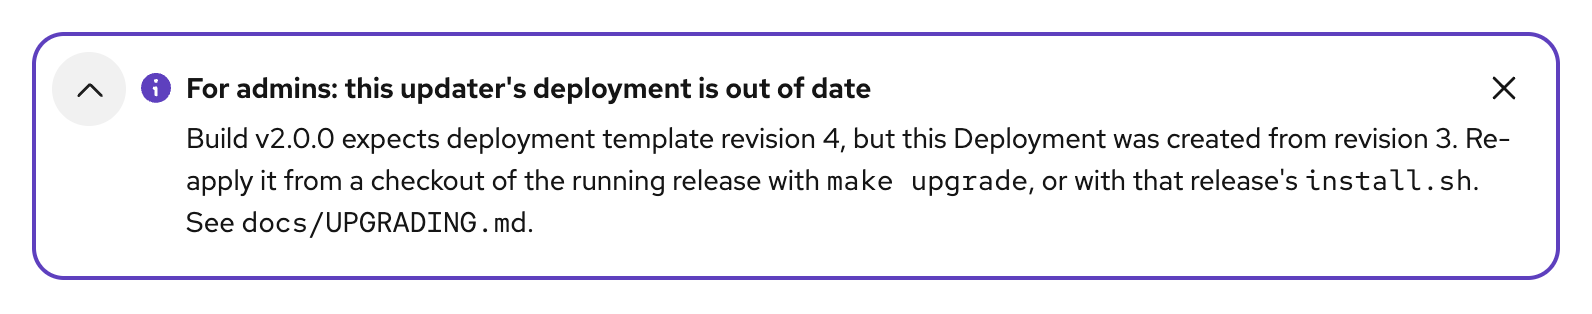
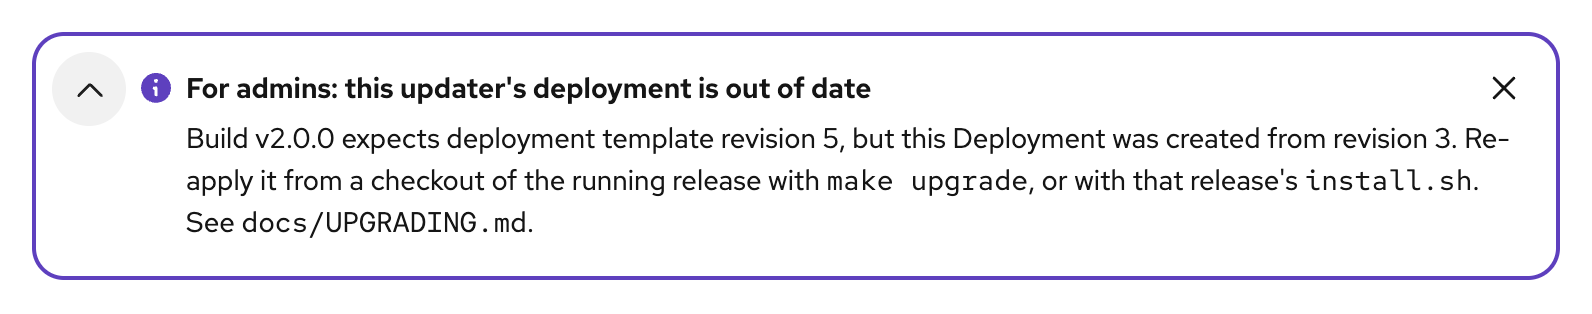
docs: regenerate the outdated-template notice for revision 5
banner-template-outdated.png still read "expects deployment template
revision 4"; the mock expects revision 5 now. Regenerated with the
banners job, and the alt text says 5.

Changed region(s): [[0.4925, 0.4013, 0.9541, 0.4873]]

diff --git a/docs/UPGRADING.md b/docs/UPGRADING.md
@@ -119,7 +119,7 @@ If the Deployment was created from an older template than the running image
 expects (typically an install on `:latest` that pulled a newer image), every
 page shows this notice for admins. Upgrade as in sections 3 to 5:
 
-<img src="images/banner-template-outdated.png" alt="Notice for admins: this updater's deployment is out of date, template revision 3 where 4 is expected" width="760">
+<img src="images/banner-template-outdated.png" alt="Notice for admins: this updater's deployment is out of date, template revision 3 where 5 is expected" width="760">
 
 Dismissing the release notice hides it until an even newer release.
 
